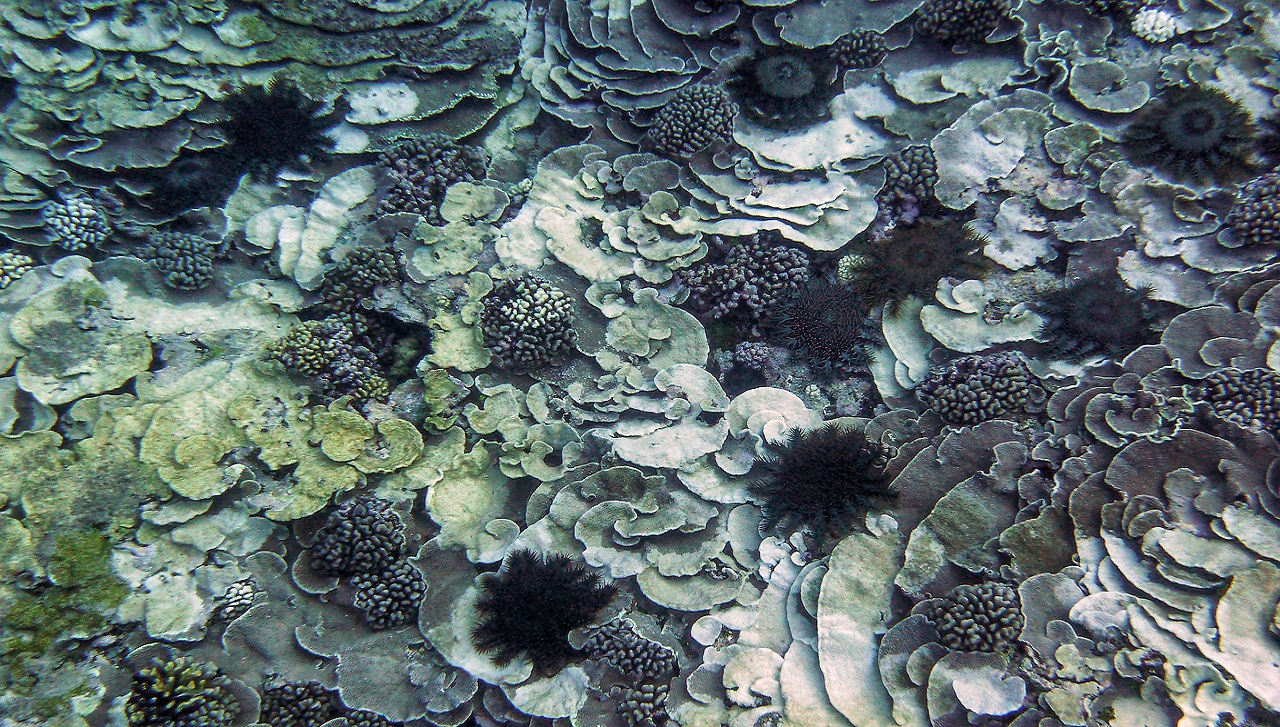
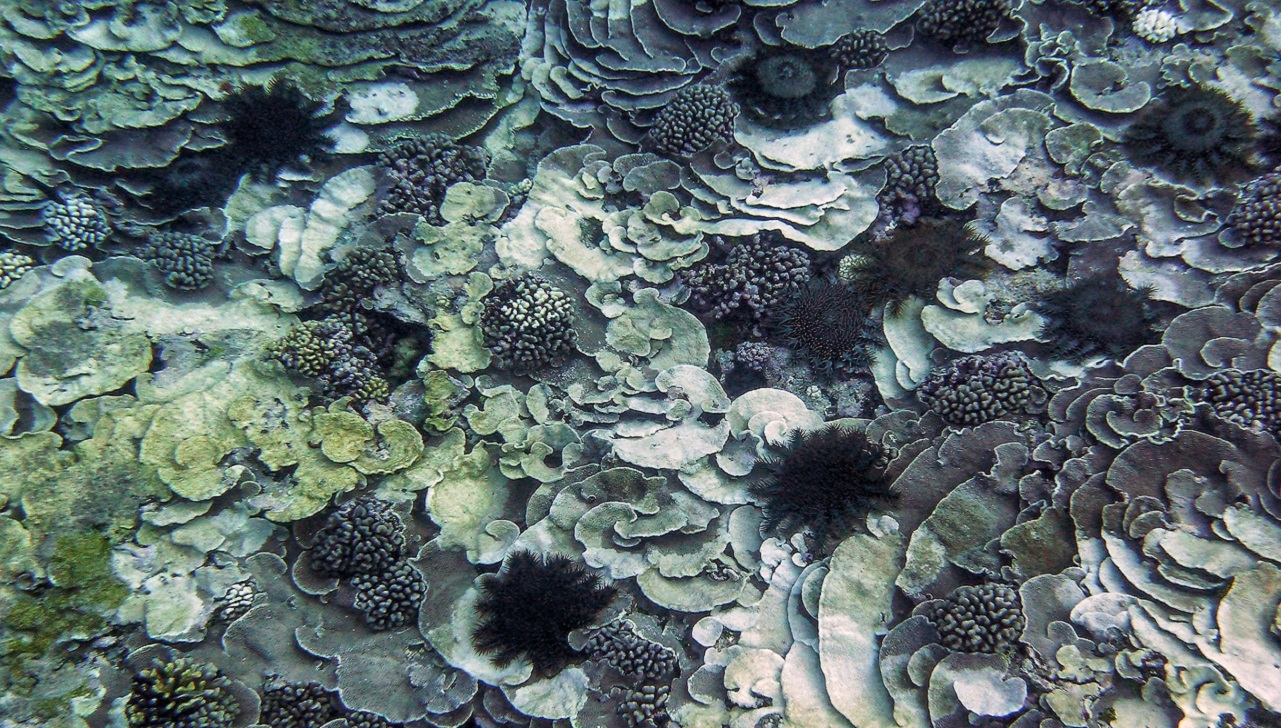
modif img diapo

diff --git a/css/index.css b/css/index.css
@@ -580,7 +580,7 @@ input[type=checkbox], input[type=radio] {
 /*animation*/
 .Slides {
   width: 1280px;
-  height: 727px;
+  height: 728px;
 }
 #btnSlides a {
   width: 6%;
@@ -889,5 +889,4 @@ input[type=checkbox], input[type=radio] {
   position: absolute;
   top: 12px;
   left: -296px
-
 }
